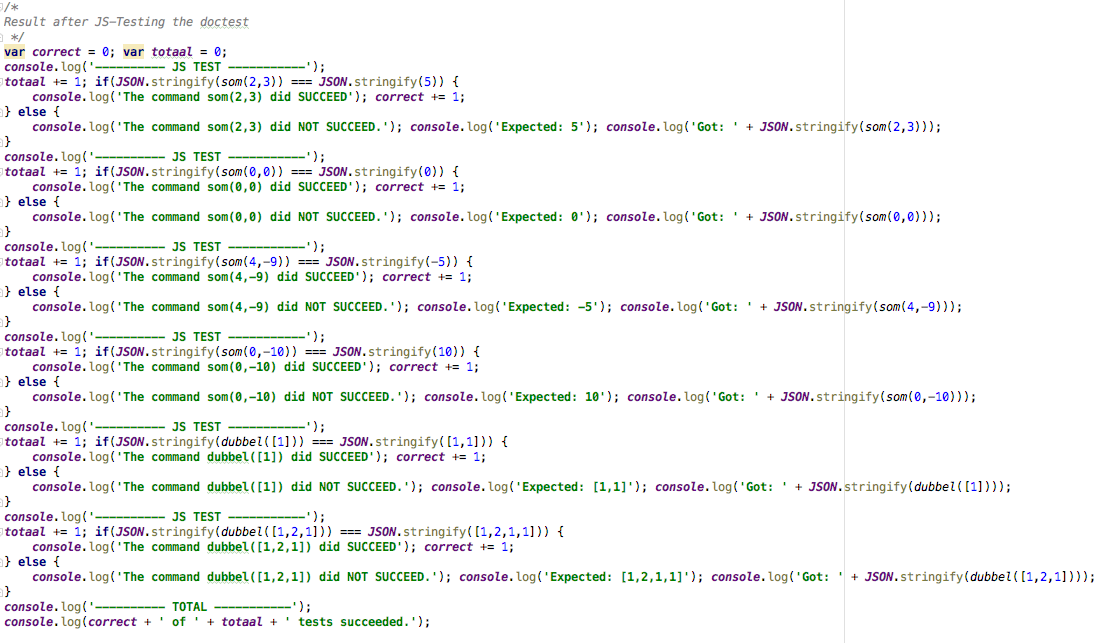
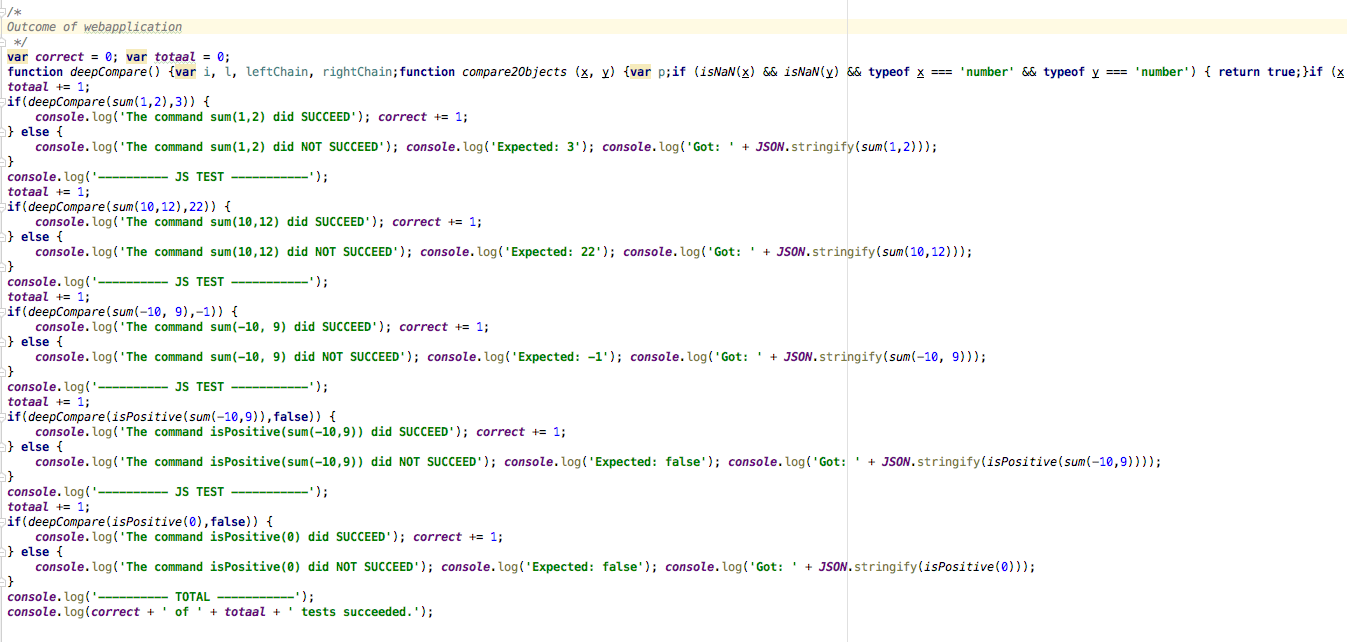
Bugfix of int comparing in webapplication Changed readme

diff --git a/webapplication/index.html b/webapplication/index.html
@@ -65,7 +65,7 @@
     function verwerk(){
         let res = '';
         res += "var correct = 0; var totaal = 0;\n";
-        res += `Object.compare = function (obj1, obj2) {        for (let p in obj1) {            if (obj1.hasOwnProperty(p) !== obj2.hasOwnProperty(p)) return false;            switch (typeof (obj1[p])) {                case 'object':                    if (!Object.compare(obj1[p], obj2[p])) return false;                    break;                case 'function':                    if (typeof (obj2[p]) == 'undefined' || (p != 'compare' && obj1[p].toString() != obj2[p].toString())) return false;                    break;                default:                    if (obj1[p] != obj2[p]) return false;            }        }        for (let p in obj2) {            if (typeof (obj1[p]) == 'undefined') return false;        }        return true;    };`.replace(/  /g,"");
+        res += `function deepCompare() {  var i, l, leftChain, rightChain;  function compare2Objects (x, y) {    var p;    if (isNaN(x) && isNaN(y) && typeof x === 'number' && typeof y === 'number') {         return true;    }    if (x === y) {        return true;    }    if ((typeof x === 'function' && typeof y === 'function') ||       (x instanceof Date && y instanceof Date) ||       (x instanceof RegExp && y instanceof RegExp) ||       (x instanceof String && y instanceof String) ||       (x instanceof Number && y instanceof Number)) {        return x.toString() === y.toString();    }    if (!(x instanceof Object && y instanceof Object)) {        return false;    }    if (x.isPrototypeOf(y) || y.isPrototypeOf(x)) {        return false;    }    if (x.constructor !== y.constructor) {        return false;    }    if (x.prototype !== y.prototype) {        return false;    }    if (leftChain.indexOf(x) > -1 || rightChain.indexOf(y) > -1) {         return false;    }    for (p in y) {        if (y.hasOwnProperty(p) !== x.hasOwnProperty(p)) {            return false;        }        else if (typeof y[p] !== typeof x[p]) {            return false;        }    }    for (p in x) {        if (y.hasOwnProperty(p) !== x.hasOwnProperty(p)) {            return false;        }        else if (typeof y[p] !== typeof x[p]) {            return false;        }        switch (typeof (x[p])) {            case 'object':            case 'function':                leftChain.push(x);                rightChain.push(y);                if (!compare2Objects (x[p], y[p])) {                    return false;                }                leftChain.pop();                rightChain.pop();                break;            default:                if (x[p] !== y[p]) {                    return false;                }                break;        }    }    return true;  }  if (arguments.length < 1) {    return true;  }  for (i = 1, l = arguments.length; i < l; i++) {      leftChain = [];      rightChain = [];      if (!compare2Objects(arguments[0], arguments[i])) {          return false;      }  }  return true;};`.replace(/  /g,"");
         let lines = $("#inputField").val().split("\n");
         let index = 0;
         while(index < lines.length){
@@ -77,9 +77,9 @@
                     if(! nextline.startsWith(">>")) {
                         res += `console.log('---------- JS TEST -----------');\n`;
                         if (nextline.startsWith("AssertionError")) {
-                            res += `totaal += 1; var check = false; try {\n` + line + `\n} catch(error) { \n if(error.name === "AssertionError") { \n check = true; \n} \n} if(check) {\n console.log('The command ` + line.replace(/(['"])/g, "\\$1") + ` has CORRECTLY thrown an AssertionError.'); correct += 1; \n} else { \nconsole.log('The command ` + line.replace(/(['"])/g, "\\$1") + ` has NOT CORRECTLY thrown an AssertionError')\n }; \n`;
+                            res += `totaal += 1;\n var check = false; try {\n` + line + `\n} catch(error) { \n if(error.name === "AssertionError") { \n check = true; \n} \n} if(check) {\n console.log('The command ` + line.replace(/(['"])/g, "\\$1") + ` has CORRECTLY thrown an AssertionError.'); correct += 1; \n} else { \nconsole.log('The command ` + line.replace(/(['"])/g, "\\$1") + ` has NOT CORRECTLY thrown an AssertionError')\n }; \n`;
                         } else {
-                            res += `totaal += 1; if(Object.compare(` + line + `,` + nextline + `)) { \n console.log('The command ` + line.replace(/(['"])/g, "\\$1") + ` did SUCCEED'); correct += 1; \n } else { \n console.log('The command ` + line.replace(/(['"])/g, "\\$1") + ` did NOT SUCCEED'); console.log('Expected: ` + nextline.replace(/(['"])/g, "\\$1") + `'); console.log('Got: ' + JSON.stringify(` + line + `));\n} \n`;
+                            res += `totaal += 1;\n if(deepCompare(` + line + `,` + nextline + `)) { \n console.log('The command ` + line.replace(/(['"])/g, "\\$1") + ` did SUCCEED'); correct += 1; \n } else { \n console.log('The command ` + line.replace(/(['"])/g, "\\$1") + ` did NOT SUCCEED'); console.log('Expected: ` + nextline.replace(/(['"])/g, "\\$1") + `'); console.log('Got: ' + JSON.stringify(` + line + `));\n} \n`;
                         }
                         index += 1;
                     } else {

diff --git a/webapplication/example.js b/webapplication/example.js
@@ -1,0 +1,64 @@
+function sum(a, b){
+    return a + b;
+}
+
+function isPositive(a){
+    return a >= 0;
+}
+
+/*
+How you would write doctest:
+
+>> sum(1,2);
+3
+>> sum(10,12);
+22
+>> sum(-10, 9);
+-1
+>> isPositive(sum(-10,9));
+false
+>> isPositive(0);
+false <-- To see what happens on failing
+ */
+
+/*
+Outcome of webapplication
+ */
+var correct = 0; var totaal = 0;
+function deepCompare() {var i, l, leftChain, rightChain;function compare2Objects (x, y) {var p;if (isNaN(x) && isNaN(y) && typeof x === 'number' && typeof y === 'number') { return true;}if (x === y) {return true;}if ((typeof x === 'function' && typeof y === 'function') || (x instanceof Date && y instanceof Date) || (x instanceof RegExp && y instanceof RegExp) || (x instanceof String && y instanceof String) || (x instanceof Number && y instanceof Number)) {return x.toString() === y.toString();}if (!(x instanceof Object && y instanceof Object)) {return false;}if (x.isPrototypeOf(y) || y.isPrototypeOf(x)) {return false;}if (x.constructor !== y.constructor) {return false;}if (x.prototype !== y.prototype) {return false;}if (leftChain.indexOf(x) > -1 || rightChain.indexOf(y) > -1) { return false;}for (p in y) {if (y.hasOwnProperty(p) !== x.hasOwnProperty(p)) {return false;}else if (typeof y[p] !== typeof x[p]) {return false;}}for (p in x) {if (y.hasOwnProperty(p) !== x.hasOwnProperty(p)) {return false;}else if (typeof y[p] !== typeof x[p]) {return false;}switch (typeof (x[p])) {case 'object':case 'function':leftChain.push(x);rightChain.push(y);if (!compare2Objects (x[p], y[p])) {return false;}leftChain.pop();rightChain.pop();break;default:if (x[p] !== y[p]) {return false;}break;}}return true;}if (arguments.length < 1) {return true;}for (i = 1, l = arguments.length; i < l; i++) {leftChain = [];rightChain = [];if (!compare2Objects(arguments[0], arguments[i])) {return false;}}return true;};console.log('---------- JS TEST -----------');
+totaal += 1;
+if(deepCompare(sum(1,2),3)) {
+    console.log('The command sum(1,2) did SUCCEED'); correct += 1;
+} else {
+    console.log('The command sum(1,2) did NOT SUCCEED'); console.log('Expected: 3'); console.log('Got: ' + JSON.stringify(sum(1,2)));
+}
+console.log('---------- JS TEST -----------');
+totaal += 1;
+if(deepCompare(sum(10,12),22)) {
+    console.log('The command sum(10,12) did SUCCEED'); correct += 1;
+} else {
+    console.log('The command sum(10,12) did NOT SUCCEED'); console.log('Expected: 22'); console.log('Got: ' + JSON.stringify(sum(10,12)));
+}
+console.log('---------- JS TEST -----------');
+totaal += 1;
+if(deepCompare(sum(-10, 9),-1)) {
+    console.log('The command sum(-10, 9) did SUCCEED'); correct += 1;
+} else {
+    console.log('The command sum(-10, 9) did NOT SUCCEED'); console.log('Expected: -1'); console.log('Got: ' + JSON.stringify(sum(-10, 9)));
+}
+console.log('---------- JS TEST -----------');
+totaal += 1;
+if(deepCompare(isPositive(sum(-10,9)),false)) {
+    console.log('The command isPositive(sum(-10,9)) did SUCCEED'); correct += 1;
+} else {
+    console.log('The command isPositive(sum(-10,9)) did NOT SUCCEED'); console.log('Expected: false'); console.log('Got: ' + JSON.stringify(isPositive(sum(-10,9))));
+}
+console.log('---------- JS TEST -----------');
+totaal += 1;
+if(deepCompare(isPositive(0),false)) {
+    console.log('The command isPositive(0) did SUCCEED'); correct += 1;
+} else {
+    console.log('The command isPositive(0) did NOT SUCCEED'); console.log('Expected: false'); console.log('Got: ' + JSON.stringify(isPositive(0)));
+}
+console.log('---------- TOTAL -----------');
+console.log(correct + ' of ' + totaal + ' tests succeeded.');

diff --git a/README.md b/README.md
@@ -1,10 +1,36 @@
 # JSTester
 
+Two handy applications that can help testing your javascript code.
+
 ## Web application
 
 Small webapplication that enables to generate a script for doctest-like testing for javascript
 
-### Contributors
+Usage:
+* Go to the webapplication [link](http://users.ugent.be/~madbuck/JSTester/webapplication/)
+* Paste the doctest code
+* Click GO
+* Optionally: click MINIFY (get it all on 1 line, much cleaner.)
+* Paste code in js script
+* Run and see
+
+Example functions:
+
+![functions](webapplication/afbeeldingen/functies.png)
+
+Example doctest:
+
+![functions](webapplication/afbeeldingen/doctest.png)
+
+Example JSTest outcome:
+
+![functions](webapplication/afbeeldingen/JSTest.png)
+
+Example after running:
+
+![functions](webapplication/afbeeldingen/resultaat.png)
+
+### Contributor
 * [Manu De Buck](https://github.com/ManuDeBuck)
 
 ## Javascript script
@@ -24,5 +50,5 @@ Example output:
 ![output](https://i.imgur.com/20TYQs6.png)
 
 
-### Contributors
+### Contributor
 * [Robin De Baets](https://github.com/RobinDeBaets)
